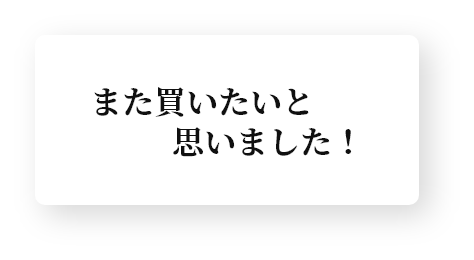
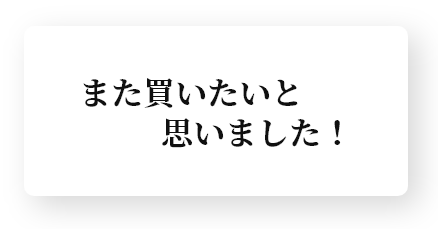
[update] ベネフィットセクションの水しぶき背景をコンテナの外に移動

Changed region(s): [[0.1781, 0.3362, 0.8014, 0.6419], [0.1187, 0.2445, 0.9201, 0.8253]]

diff --git a/index.html b/index.html
@@ -97,28 +97,30 @@
       </div>
     </div>
     <div id="benefit_section">
-      <div class="benefit_container">
-        <div class="benefit_top_section">
-          <img class="benefit_title" src="./assets/img/benefit_title.svg" width="547" height="205" alt="父の日に味わう贅沢な時間">
-          <img class="benefit_fruits" src="./assets/img/benefit_fruits.png" width="240" height="280" alt="オレンジとスターフルーツ">
+      <div class="benefit_middle_bg">
+        <div class="benefit_container_top">
+          <div class="benefit_top_section">
+            <img class="benefit_title" src="./assets/img/benefit_title.svg" width="547" height="205" alt="父の日に味わう贅沢な時間">
+            <img class="benefit_fruits" src="./assets/img/benefit_fruits.png" width="240" height="280" alt="オレンジとスターフルーツ">
+          </div>
         </div>
-        <div class="benefit_middle_section">
+        <div class="benefit_container_bottom">
           <div class="cheers">
             <img src="./assets/img/cheers.jpg" width="799" height="857" alt="二人がビールで乾杯している様子">
           </div>
-        </div>
-        <div class="benefit_voices">
-          <div class="voice1">
-            <img src="./assets/img/voice1.png" width="460" height="260" alt="仕事の終わりに最高の一杯！">
-          </div>
-          <div class="voice2">
-            <img src="./assets/img/voice2.png" width="474" height="260" alt="また買いたいと思いました！">
-          </div>
-          <div class="voice3">
-            <img src="./assets/img/voice3.png" width="752" height="236" alt="プレゼントにもらい子供と一緒に晩酌を楽しみました！">
-          </div>
-          <div class="voice4">
-            <img src="./assets/img/voice4.png" width="754" height="236" alt="普段飲むビールとは違って、飲みやすく特別感がありました！">
+          <div class="benefit_voices">
+            <div class="voice1">
+              <img src="./assets/img/voice1.png" width="431" height="230" alt="仕事の終わりに最高の一杯！">
+            </div>
+            <div class="voice2">
+              <img src="./assets/img/voice2.png" width="438" height="229" alt="また買いたいと思いました！">
+            </div>
+            <div class="voice3">
+              <img src="./assets/img/voice3.png" width="729" height="210" alt="プレゼントにもらい子供と一緒に晩酌を楽しみました！">
+            </div>
+            <div class="voice4">
+              <img src="./assets/img/voice4.png" width="726" height="221" alt="普段飲むビールとは違って、飲みやすく特別感がありました！">
+            </div>
           </div>
         </div>
       </div>

diff --git a/assets/stylesheet.css b/assets/stylesheet.css
@@ -344,11 +344,21 @@ header {
   padding: 180px 0;
 }
 
+.benefit_container_top {
+  max-width: 1104px;
+  height: 100%;
+  margin: 0 auto;
+  padding: 180px 0 0 0;
+}
+
+.benefit_container_bottom {
+  max-width: 1104px;
+  height: 100%;
+  margin: 0 auto;
+  padding: 0 0 180px 0;
+}
+
 .benefit_top_section {
-  /* display: flex;
-  align-items: center;
-  flex-wrap: wrap;
-  justify-content: left; */
   width: 100%;
   height: 100%;
   margin-bottom: 136px;
@@ -356,6 +366,12 @@ header {
 
 .benefit_title {
   margin-left: 24.9%;
+}
+
+.benefit_middle_bg {
+  background-image: url("./img/splash.png");
+  background-repeat: no-repeat;
+  background-position: 5% 80%;
 }
 
 .benefit_middle_section {
@@ -366,7 +382,7 @@ header {
 }
 
 .benefit_voices {
-  margin-top: -130%;
+  margin-top: -90%;
 }
 
 .voice1 {
@@ -386,12 +402,14 @@ header {
 
 .voice4 {
   position: static;
-  margin-left: 39.5%;
+  margin-top: 6%;
+  margin-right: -10%;
+  margin-left: 36.5%;
 }
 
 .cheers {
-  margin-left: 21%;
-  padding-left: 18.5%;
+  width: 72.4%;
+  margin: 0 0 0 auto;
 }
 
 #product_section {
@@ -733,6 +751,12 @@ footer {
 
 /*** レスポンシブ ***/
 
+@media screen and (min-width: 1441px) {
+  .benefit_middle_bg {
+    background-position: center 80%;
+  }
+}
+
 @media screen and (min-width: 481px) {
   .toggle_btn {
     display: none;
@@ -982,10 +1006,28 @@ footer {
     padding: 100px 0;
   }
 
+  .benefit_container_top {
+    max-width: 400px;
+    padding: 100px 0 0 0;
+  }
+
+  .benefit_container_bottom {
+    max-width: 400px;
+    padding: 0 0 100px 0;
+  }
+
+  .benefit_middle_bg {
+    background-position: 50% 60%;
+    background-size: 140% 60%;
+  }
+
   .benefit_middle_section {
     background-size: cover;
     background-position: center;
+    background-repeat: no-repeat;
     padding-bottom: 100%;
+    margin-left: 0%;
+    margin-bottom: 0%;
   }
 
   .benefit_top_section {
@@ -1007,25 +1049,28 @@ footer {
   }
 
   .cheers {
-    width: 400px;
+    width: 100%;
+    margin: 10% 0 0 0;
+  }
+
+  .cheers img {
     height: 324px;
-    padding-left: 0%;
   }
 
   .benefit_voices {
-    margin-top: -200%;
+    margin-top: -120%;
   }
 
   .voice1 {
     width: 186px;
     height: 86px;
-    /* margin: 0 auto 0 0; */
   }
 
   .voice2 {
     width: 185px;
     height: 86px;
-    margin: 0 0 251px auto;
+    margin-bottom: 251px;
+    margin-left: 57%;
   }
 
   .voice3 {
